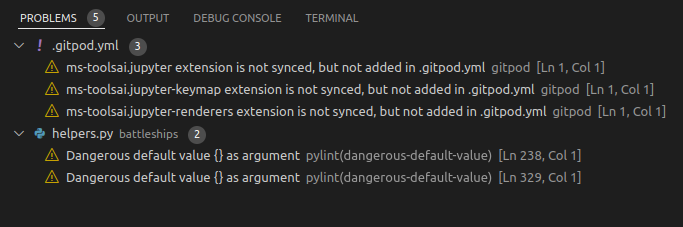
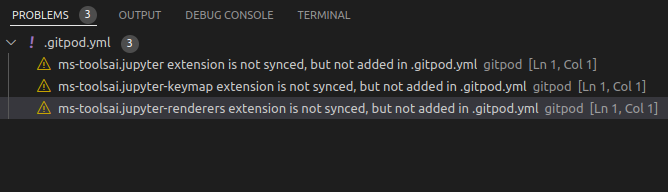
update img and fix default parameter warning

diff --git a/battleships/helpers.py b/battleships/helpers.py
@@ -235,7 +235,7 @@ def check_board_size(size):
     return False
 
 
-def validate_input(parameters, is_board_built=False, my_board={}):
+def validate_input(parameters, is_board_built, my_board):
     '''
         Validates input by checking if there is more than one parameter,
         that only numbers are input, the board size, and board size to
@@ -309,7 +309,7 @@ def is_command(parameters, my_board):
         return True
     if about(parameters):
         return True
-    if my_scores(parameters, my_board):
+    if my_scores(my_board, parameters):
         return True
     return False
 
@@ -326,7 +326,7 @@ def confirm_input(task):
     return False
 
 
-def my_scores(parameter='myscores', my_board={}):
+def my_scores(my_board, parameter='myscores'):
     """
         Prints player score info if parameter
         passed is equal to string 'myscores' or
@@ -502,7 +502,7 @@ def setup_boards(create_game_board):
     )
     while not valid_input:
         board_info = input('Board size cannot be bigger than 9:\n')
-        valid_input = validate_input(board_info)
+        valid_input = validate_input(board_info, False, {})
     player_name = input('Enter your name:\n')
     while player_name == '':
         player_name = input('Name must not be empty:\n')
